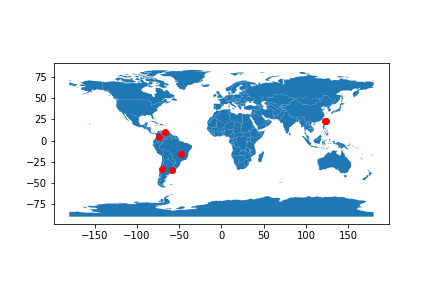
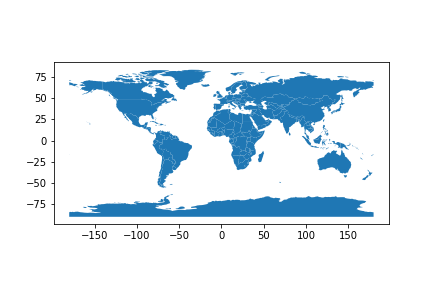
google_map

diff --git a/templates/geomap.html b/templates/geomap.html
@@ -1,0 +1,54 @@
+<!DOCTYPE html>
+<html>
+  <head>
+    <title>Blockchain Geomap</title>
+
+    <style type="text/css">
+      /* Set the size of the div element that contains the map */
+      #map {
+        height: 700px;
+        /* The height is 400 pixels */
+        width: 100%;
+        /* The width is the width of the web page */
+      }
+    </style>
+		<script src="https://unpkg.com/@googlemaps/markerclustererplus/dist/index.min.js"></script>
+    <script>
+			function initMap() {
+				const labels = "ABCDEFGHIJKLMNOPQRSTUVWXYZ";
+
+				const map = new google.maps.Map(document.getElementById("map"), {
+					zoom: 4,
+					center: { lat: -28.024, lng: 140.887 },
+				});
+
+				const markers = locations.map((location, i) => {
+					return new google.maps.Marker({
+					position: location,
+					label: i.toString(),
+					map: map,
+					});
+				});
+
+				new MarkerClusterer(map, markers, {
+					imagePath:
+					"https://developers.google.com/maps/documentation/javascript/examples/markerclusterer/m",
+				});
+			}
+	  
+			var locations = {{ loc | safe }};
+
+    </script>
+  </head>
+  <body>
+    <h3>Blockchain Geomap</h3>
+    <!--The div element for the map -->
+    <div id="map"></div>
+
+    <!-- Async script executes immediately and must be after any DOM elements used in callback. -->
+    <script
+      src="https://maps.googleapis.com/maps/api/js?key=AIzaSyCxew-Rj9YRfMwCUncnAouRBxqCj1tqTi0&callback=initMap&libraries=&v=weekly"
+      async
+    ></script>
+  </body>
+</html>

diff --git a/static/css/text.css b/static/css/text.css
@@ -1,0 +1,8 @@
+/* Set the size of the div element that contains the map */
+#map {
+  height: 80%;
+  /* The height is 400 pixels */
+  width: 80%;
+  /* The width is the width of the web page */
+  align-items: center
+}

diff --git a/app/server.py b/app/server.py
@@ -3,14 +3,16 @@
 #from textwrap import dedent
 #from time import time
 from uuid import uuid4
-from flask import Flask, jsonify, request
+from flask import Flask, jsonify, request, render_template
 from blockchain import Blockchain
 import numpy as np
 import geopandas
+import json
 import pandas as pd
+from rtree import index
 
 # Instantiate our Node
-app = Flask(__name__)
+app = Flask(__name__, template_folder='../templates', static_folder = '../static')
 
 # Generate a globally unique address for this node
 k=1000 #1000 users
@@ -18,28 +20,21 @@ node_identifiers = [str(uuid4()).replace('-', '') for i in range(k)]
 # Instantiate the Blockchain
 blockchain = Blockchain()
 node_index=0
-gdf = pd.DataFrame({'Latitude': [],'Longitude': []})
-gdf = geopandas.GeoDataFrame(
-    gdf, geometry=geopandas.points_from_xy(gdf.Longitude, gdf.Latitude))
+
+world = geopandas.read_file(geopandas.datasets.get_path('naturalearth_lowres'))
+
+
+#idx = index.Index()
+#r_index=0
+#idx.insert(4321, (34.56, 56.32, 34.56, 56.32))
 
 @app.route('/geomap',methods=['GET'])
 def geomap():
-    latitudes=[]
-    longtitudes=[]
+    locations = []
     for block in blockchain.chain:
-        for transaction in block['transactions']:
-            latitudes.append(transaction['location'][0])
-            longtitudes.append(transaction['location'][1])
-            
-    new_gdf=pd.DataFrame({'Latitude': latitudes,'Longitude': longtitudes})
-    new_gdf = geopandas.GeoDataFrame(
-        new_gdf, geometry=geopandas.points_from_xy(new_gdf.Longitude, new_gdf.Latitude))
-    gdf.append(new_gdf, ignore_index = True)
-    response = {
-        'latitudes': latitudes,
-        'longtitudes': longtitudes
-    }
-    return jsonify(response), 200
+        for trans in block['transactions']:
+            locations.append({'lat': trans['location'][0], 'lng': trans['location'][1]})
+    return render_template("geomap.html", loc=locations)
     
 @app.route('/mine', methods=['GET'])
 def mine():
@@ -51,40 +46,44 @@ def mine():
     # We must receive a reward for finding the proof.
     # The sender is "0" to signify that this node has mined a new coin.
     
-    for i in range(50000):
+    for i in range(5):
         u1, u2 = np.random.choice(range(k), size=2, replace=False)
+        lat = np.random.rand()*180-90
+        lon = np.random.rand()*360-180
+        #idx.insert(i, (lat, lon, lat, lon))
         blockchain.current_transactions.append({
                 'sender': node_identifiers[u1],
                 'verifer': node_identifiers[u2],
-                'location': [np.random.rand()*180-90, np.random.rand()*360-180]
+                'location': [lat, lon]
             })
 
-    # Forge the new Block by adding it to the chain
+    # Forge the new Block by adding it to the chain\
     previous_hash = blockchain.hash(last_block)
-    block = blockchain.new_block(proof, previous_hash)
+    block = blockchain.new_block(proof, previous_hash, None)
+    
     response = {
         'message': "New Block Forged",
         'index': block['index'],
         'transactions': block['transactions'],
         'proof': block['proof'],
         'previous_hash': block['previous_hash'],
+        'idx': str(block['idx'])
     }
     return jsonify(response), 200
 
 @app.route('/transactions/new', methods=['POST'])  # this is a POST request, since we’ll be sending data to it.
 def new_transaction(sender, recipient, amount):
     values = request.get_json()
-    print("i am here: ",values)
     # Check that the required fields are in the POST'ed data
     required = ['sender', 'recipient', 'amount']
     if not all(k in values for k in required):
         return 'Missing values', 400
 
     # Create a new Transaction
-    index = blockchain.new_transaction(values['sender'], values['recipient'], 
+    new = blockchain.new_transaction(values['sender'], values['recipient'], 
                                        values['data'])
 
-    response = {'message': f'Transaction will be added to Block {index}'}
+    response = {'message': f'Transaction will be added to Block {new}'}
     return jsonify(response), 201
 
 @app.route('/chain', methods=['GET'])
@@ -94,44 +93,6 @@ def full_chain():
         'length': len(blockchain.chain),
     }
     return jsonify(response), 200
-
-
-@app.route('/nodes/register', methods=['POST'])
-def register_nodes():
-    values = request.get_json()
-
-    nodes = values.get('nodes')
-    print(nodes)
-    if nodes is None:
-        return "Error: Please supply a valid list of nodes", 400
-
-    for node in nodes:
-        blockchain.register_node(node)
-
-    response = {
-        'message': 'New nodes have been added',
-        'total_nodes': list(blockchain.nodes),
-    }
-    return jsonify(response), 201
-
-
-@app.route('/nodes/resolve', methods=['GET'])
-def consensus():
-    replaced = blockchain.resolve_conflicts()
-
-    if replaced:
-        response = {
-            'message': 'Our chain was replaced',
-            'new_chain': blockchain.chain
-        }
-    else:
-        response = {
-            'message': 'Our chain is authoritative',
-            'chain': blockchain.chain
-        }
-
-    return jsonify(response), 200
-
 
 if __name__ == '__main__':
     app.run(host='0.0.0.0', port=5000)

diff --git a/app/blockchain.py b/app/blockchain.py
@@ -14,7 +14,7 @@ class Blockchain(object):
         # Create the genesis block
         self.new_block(previous_hash=1, proof=100)
 
-    def new_block(self, proof, previous_hash=None):
+    def new_block(self, proof, previous_hash=None, idx=None):
         """
         Create a new Block in the Blockchain
         :param proof: <int> The proof given by the Proof of Work algorithm
@@ -28,6 +28,7 @@ class Blockchain(object):
             'transactions': self.current_transactions,
             'proof': proof,
             'previous_hash': previous_hash or self.hash(self.chain[-1]),
+            'idx': idx
         }
 
         # Reset the current list of transactions

diff --git a/app/untitled0.py b/app/untitled0.py
@@ -7,7 +7,6 @@ Created on Sat May 22 12:08:12 2021
 import geopandas
 import pandas as pd
 from flask import Flask, jsonify, request, render_template, redirect, url_for
-import matplotlib as plt
 
 app = Flask(__name__, template_folder='../templates', static_folder = '../static')
 #app._static_folder = '../static'
